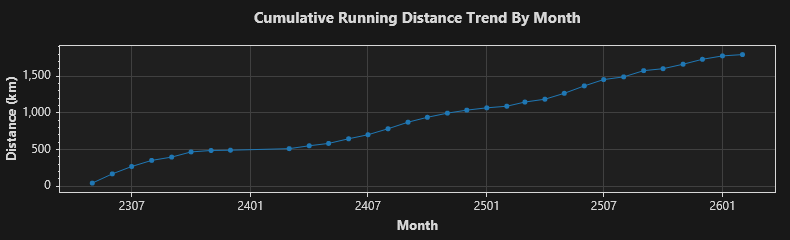
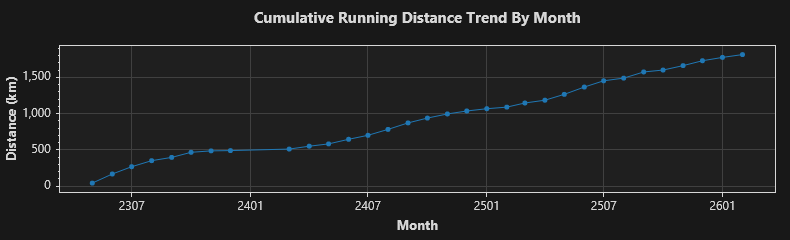
2026/2/21 跑步 2.01 公里

diff --git a/trend.md b/trend.md
@@ -1,4 +1,4 @@
-### Total: 304 days, 1792.66 km.
+### Total: 309 days, 1813.53 km.
 
 
 ![Monthly](https://github.com/prime167/MyRunningLog/blob/main/data/CumulativeTrendByMonth.png)
